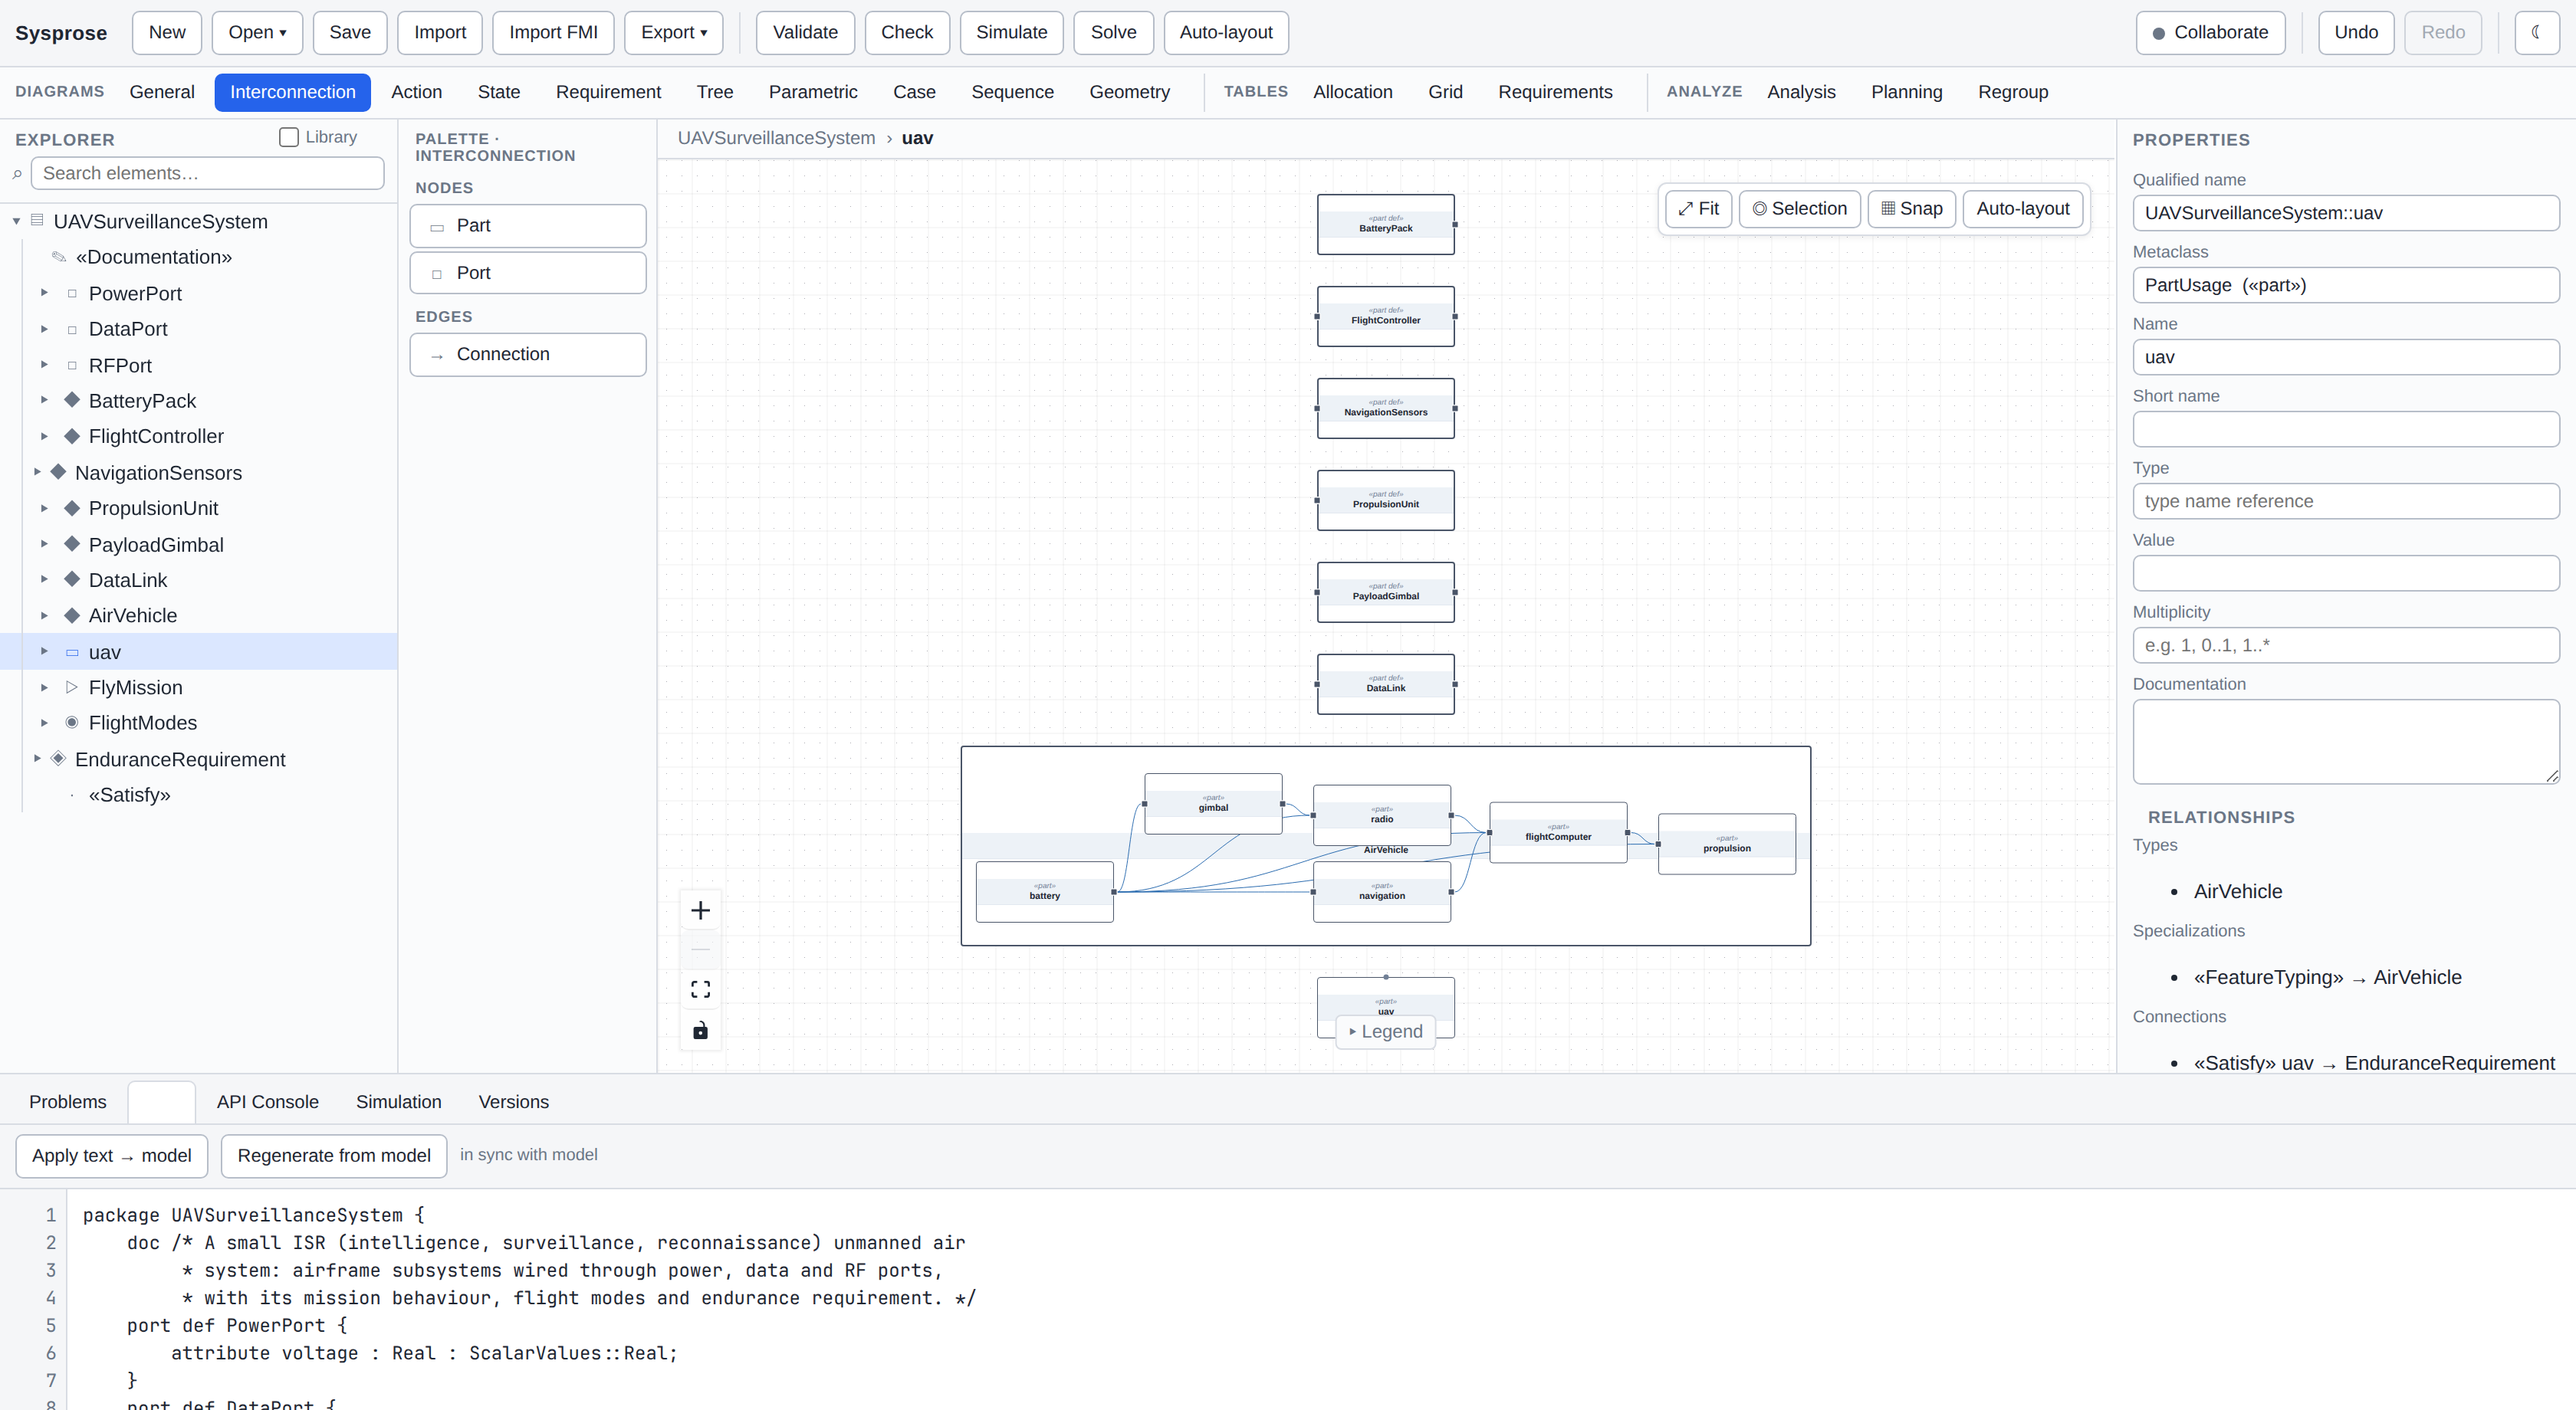
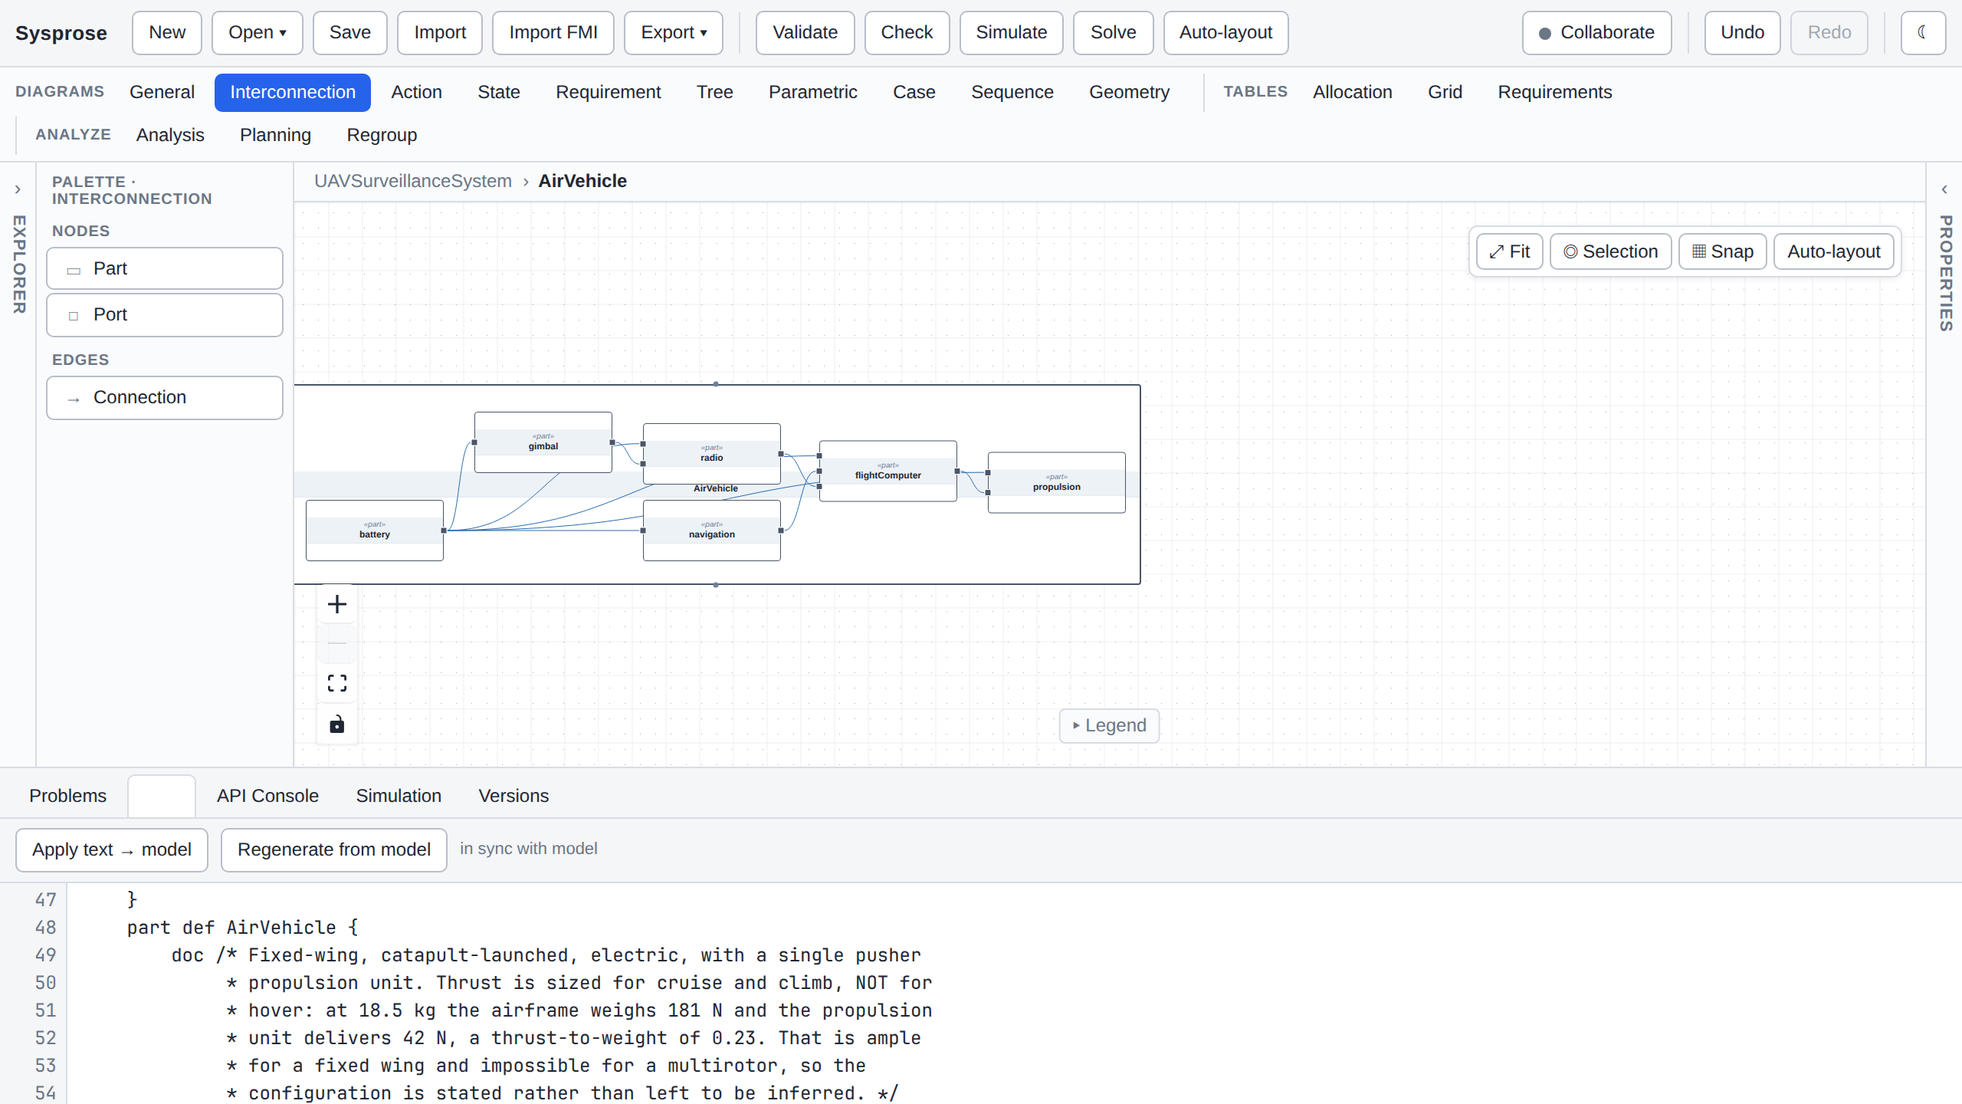
docs: repair the front-page model and recapture the hero
A Fable advisory reviewed the README example and its screenshot. Both had real
problems, and the image had become a liability: it showed a serializer bug that
no longer exists.

THE MODEL (examples/uav-isr.sysml):
- The requirement contradicted itself. Its doc promised 45 minutes of endurance;
  its constraint checked `mtowKg <= 25.0`, a mass limit. Split in two:
  EnduranceRequirement now checks the endurance it claims — usable pack energy
  at cruise power, 640 Wh x 0.8 / 650 W = 47 min >= 45 — and MassRequirement
  keeps the 25 kg class boundary that the original constraint was really about.
  Verified the endurance constraint EVALUATES rather than passing vacuously: at
  640 Wh it is satisfied, at 300 Wh (22 min) it reports violated. A constraint
  that cannot fail is decoration, which was the criticism in the first place.
- The numbers only work for a fixed wing and the model never said so. One
  propulsion unit at 42 N against 181 N of weight is a thrust-to-weight of 0.23:
  ample for a fixed wing, impossible for the multirotor most readers would
  assume. Now stated in the AirVehicle doc, with the arithmetic.
- The mission chain reads correctly for the first time: the three bare `then`
  statements used to be dropped silently (fixed in 30a7cc6), so the shipped
  example's own action flow was takeoff -> transitToArea and nothing more.

THE HERO (docs/images/sysprose-uav.png, scripts/shot-hero.mjs — `npm run shot:hero`):
[…]

diff --git a/README.md b/README.md
@@ -8,9 +8,10 @@ OMG SysML v2 *API & Services*–shaped query facade.
 
 [![Sysprose showing a UAV surveillance model: the interconnection diagram of the air vehicle above the SysML v2 textual source that produced it](docs/images/sysprose-uav.png)](https://cosmindxu.github.io/sysprose/)
 
-<p align="center"><em>An ISR unmanned air system modelled in Sysprose — the interconnection view of
-the air vehicle, generated from the textual definitions shown underneath
-(<a href="examples/uav-isr.sysml"><code>examples/uav-isr.sysml</code></a>).
+<p align="center"><em>An ISR unmanned air system modelled in Sysprose — the interconnection view
+of the air vehicle, scoped to it, above the definition that produces it
+(<a href="examples/uav-isr.sysml"><code>examples/uav-isr.sysml</code></a>; the editor shows the
+serializer's normalised form of the source).
 <strong><a href="https://cosmindxu.github.io/sysprose/">Try it in your browser →</a></strong></em></p>
 
 > **AI-agent focus.** Two things make the tool agent-friendly: models are developed as *textual
@@ -21,6 +22,14 @@ the air vehicle, generated from the textual definitions shown underneath
 > An academic modeling tool targeting the core authoring experience of modern MBSE
 > tools, built on the OMG SysML v2 / KerML standard (adopted 2025).
 
+## Highlights
+
+- **Standards-native model** — the in-memory model mirrors the OMG API element-graph (flat `@id`/`@type`, relationships reified as first-class elements), so it round-trips losslessly.
+- **Graphical + textual** — multiple diagram views (General/BDD, Interconnection/IBD, Action, State, Requirement, Tree) kept in sync with the SysML v2 textual notation.
+- **Validation** — a rule engine flags naming, typing, multiplicity, containment and traceability issues.
+- **API-first** — query the model with OMG-shaped constraint trees, compute analytics (metrics, requirement-satisfaction coverage, traceability, where-used), and script automations.
+- **Local-first** — projects persist in the browser (IndexedDB/localStorage); import/export `.sysml`, model JSON, and OMG element-graph JSON.
+
 ## Name and standards status
 
 Sysprose implements a **SysML v2–style textual notation** and an **OMG-API-shaped element
@@ -29,14 +38,6 @@ tested SysML v2 tool, and it does not claim conformance to any OMG specification
 registered trademark of the Object Management Group, Inc.** This project is not affiliated with,
 sponsored by, or endorsed by the OMG. Where the documentation says "SysML v2" it refers to the
 *language and API shape being implemented*, never to a certification of this tool.
-
-## Highlights
-
-- **Standards-native model** — the in-memory model mirrors the OMG API element-graph (flat `@id`/`@type`, relationships reified as first-class elements), so it round-trips losslessly.
-- **Graphical + textual** — multiple diagram views (General/BDD, Interconnection/IBD, Action, State, Requirement, Tree) kept in sync with the SysML v2 textual notation.
-- **Validation** — a rule engine flags naming, typing, multiplicity, containment and traceability issues.
-- **API-first** — query the model with OMG-shaped constraint trees, compute analytics (metrics, requirement-satisfaction coverage, traceability, where-used), and script automations.
-- **Local-first** — projects persist in the browser (IndexedDB/localStorage); import/export `.sysml`, model JSON, and OMG element-graph JSON.
 
 ## For AI agents
 
